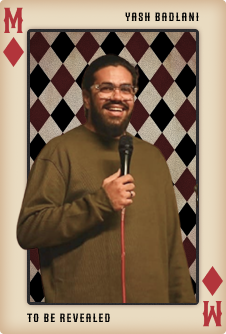
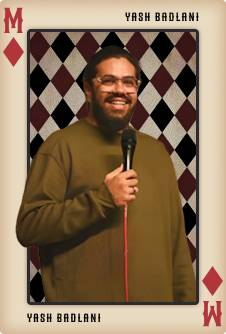
fixes

diff --git a/index.html b/index.html
@@ -66,29 +66,43 @@
   <div id="root"></div>
   <script type="module" src="/src/main.jsx"></script>
   <script type="application/ld+json">
-    {
-      "@context": "https://schema.org",
-      "@type": "Event",
-      "name": "Abhivyakti 2026",
-      "description": "Annual cultural fest of IIIT Nagpur themed The Enchanted Circus, featuring music, dance, theatre, pro-shows and art exhibitions.",
-      "eventAttendanceMode": "https://schema.org/OfflineEventAttendanceMode",
-      "eventStatus": "https://schema.org/EventScheduled",
-      "organizer": {
-        "@type": "Organization",
-        "name": "IIIT Nagpur"
-      },
-      "location": {
-        "@type": "Place",
-        "name": "Indian Institute of Information Technology, Nagpur",
-        "address": {
-          "@type": "PostalAddress",
-          "addressLocality": "Nagpur",
-          "addressRegion": "Maharashtra",
-          "addressCountry": "India"
-        }
-      }
+{
+  "@context": "https://schema.org",
+  "@type": "Event",
+  "name": "Abhivyakti 2026",
+  "description": "Annual cultural fest of IIIT Nagpur themed The Enchanted Circus, featuring music, dance, theatre, pro-shows and art exhibitions.",
+  "image": "https://assets.2026.abhivyaktifest.in/main-banner.png",
+  "startDate": "2026-02-20T18:00:00+05:30",
+  "endDate": "2026-03-21T23:00:00+05:30",
+  "eventAttendanceMode": "https://schema.org/OfflineEventAttendanceMode",
+  "eventStatus": "https://schema.org/EventScheduled",
+  "organizer": {
+    "@type": "Organization",
+    "name": "IIIT Nagpur",
+    "url": "https://iiitn.ac.in"
+  },
+  "location": {
+    "@type": "Place",
+    "name": "Indian Institute of Information Technology, Nagpur",
+    "address": {
+      "@type": "PostalAddress",
+      "streetAddress": "Waranga",
+      "addressLocality": "Nagpur",
+      "addressRegion": "Maharashtra",
+      "postalCode": "441108",
+      "addressCountry": "IN"
     }
-  </script>
+  },
+  "offers": {
+    "@type": "Offer",
+    "url": "https://abhivyaktifest.in/register",
+    "price": "800",
+    "priceCurrency": "INR",
+    "availability": "https://schema.org/InStock",
+    "validFrom": "2025-12-01T00:00:00+05:30"
+  }
+}
+</script>
 </body>
 
 </html>

diff --git a/src/components/home/GuestsSpeakers/GuestsSpeakers.jsx b/src/components/home/GuestsSpeakers/GuestsSpeakers.jsx
@@ -27,14 +27,14 @@ const GuestsSpeakers = () => {
       name: "",
       designation: "",
       image:
-        "https://assets.2026.abhivyaktifest.in/images/guests/badlani.png",
+        "https://assets.2026.abhivyaktifest.in/images/guests/rohit.png",
     },
     {
       id: 3,
       name: "",
       designation: "",
       image:
-        "https://assets.2026.abhivyaktifest.in/images/guests/rohit.png",
+        "https://assets.2026.abhivyaktifest.in/images/guests/badlani.png",
     },
     {
       id: 4,
@@ -48,14 +48,14 @@ const GuestsSpeakers = () => {
       name: "",
       designation: "",
       image:
-        "https://assets.2026.abhivyaktifest.in/images/guests/badlani.png",
+        "https://assets.2026.abhivyaktifest.in/images/guests/rohit.png",
     },
     {
       id: 6,
       name: "",
       designation: "",
       image:
-        "https://assets.2026.abhivyaktifest.in/images/guests/rohit.png",
+        "https://assets.2026.abhivyaktifest.in/images/guests/badlani.png",
     },
     // {
     //   id: 4,
